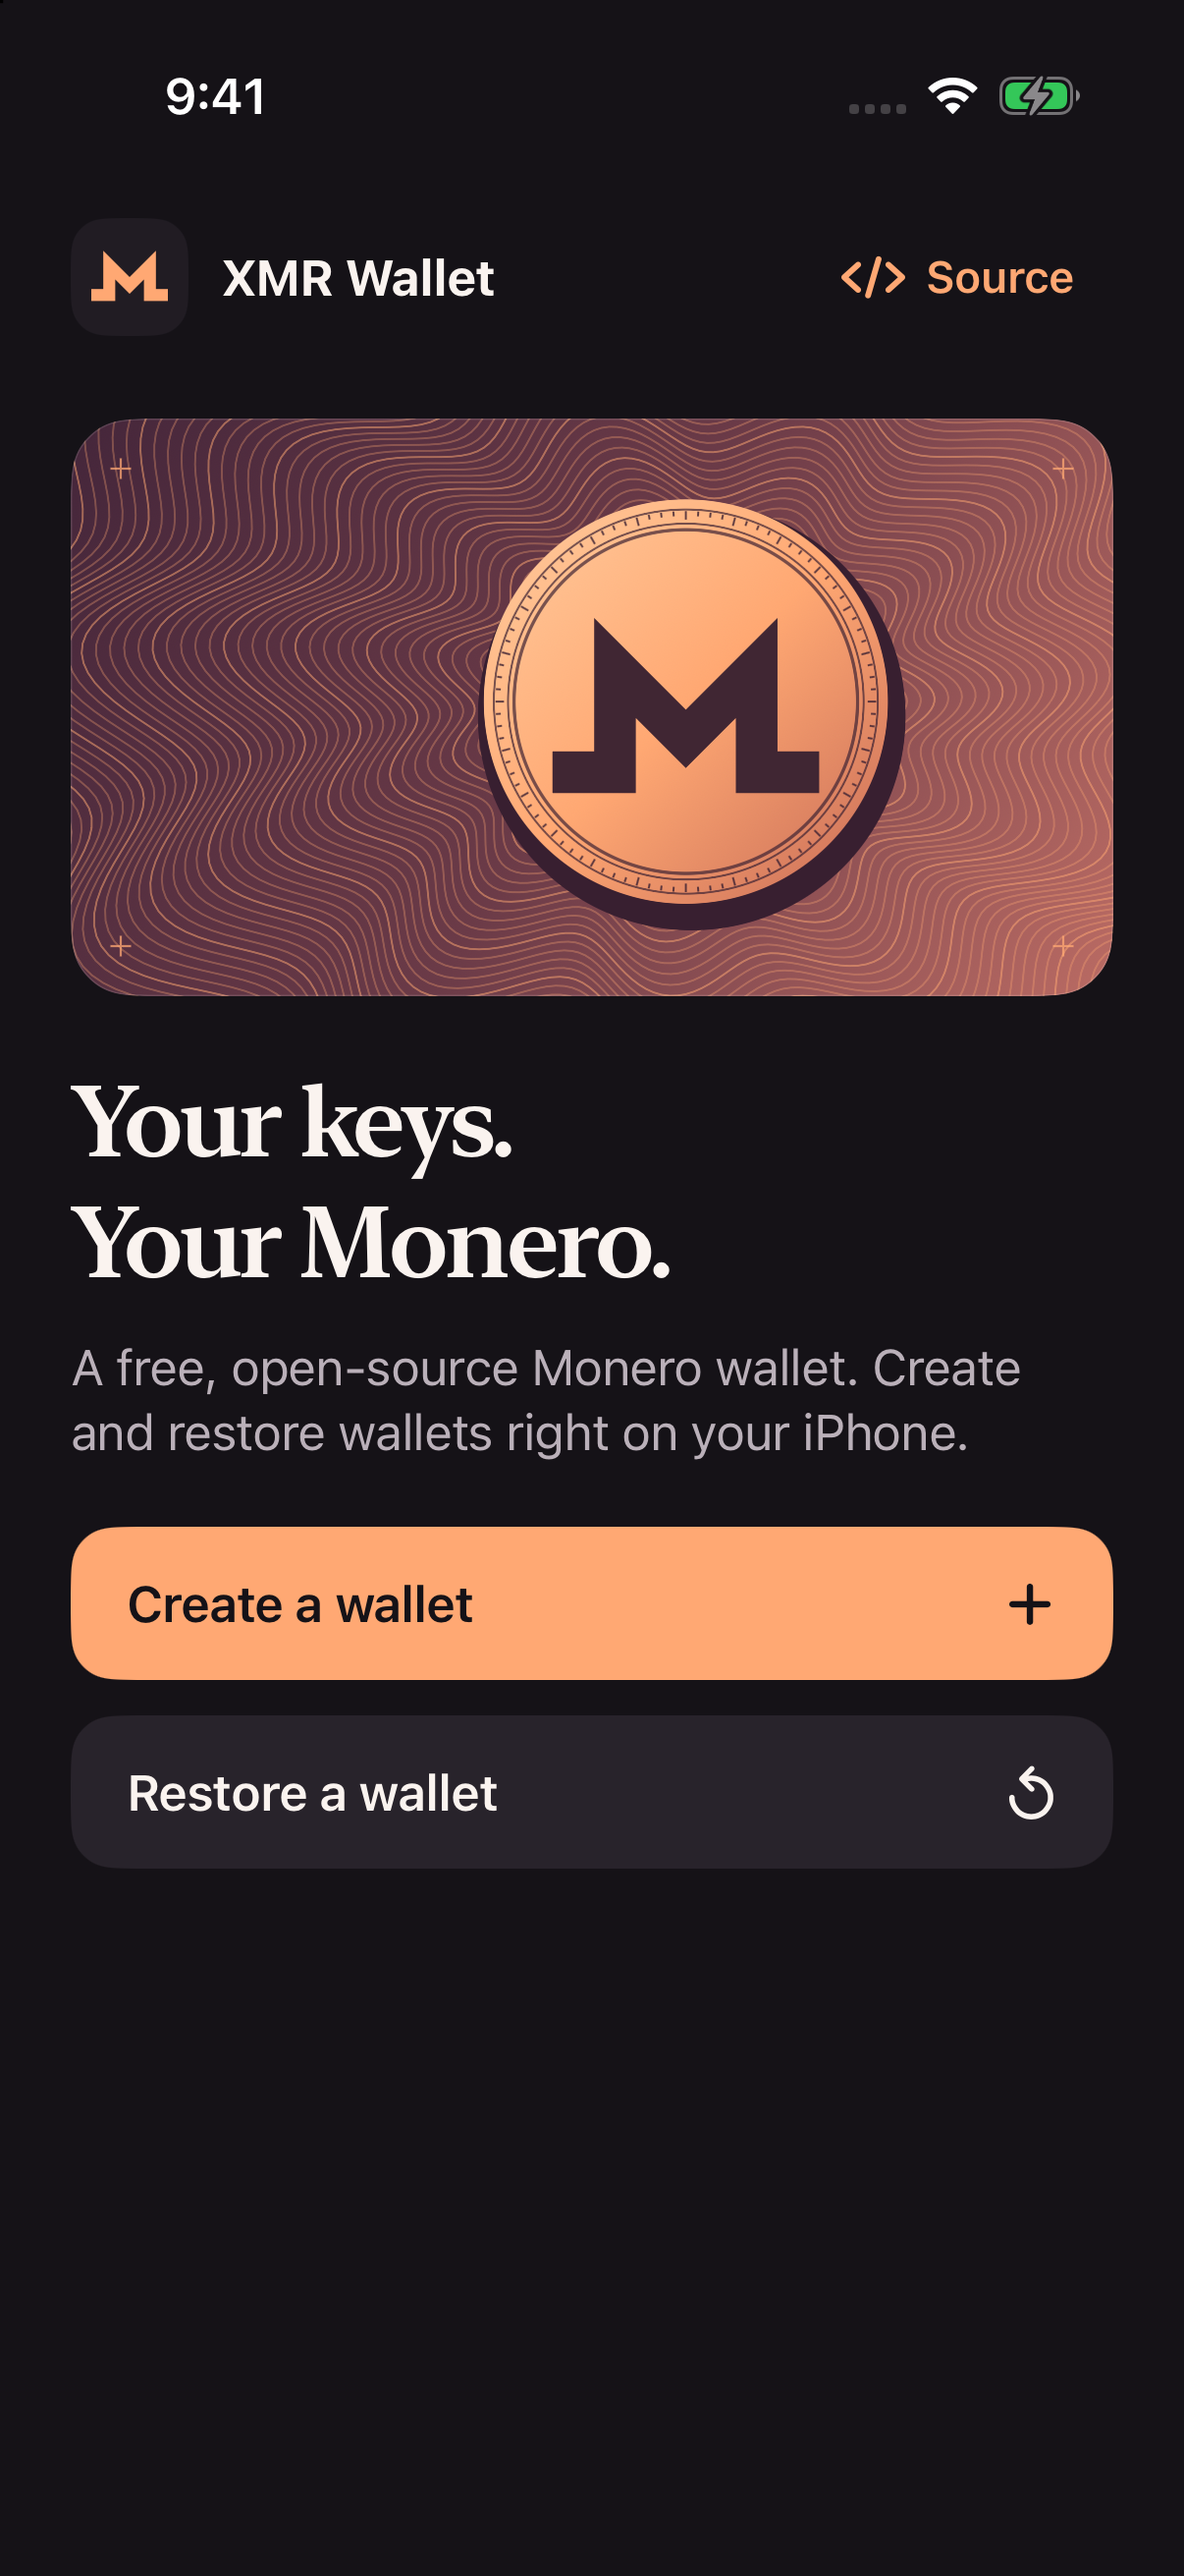
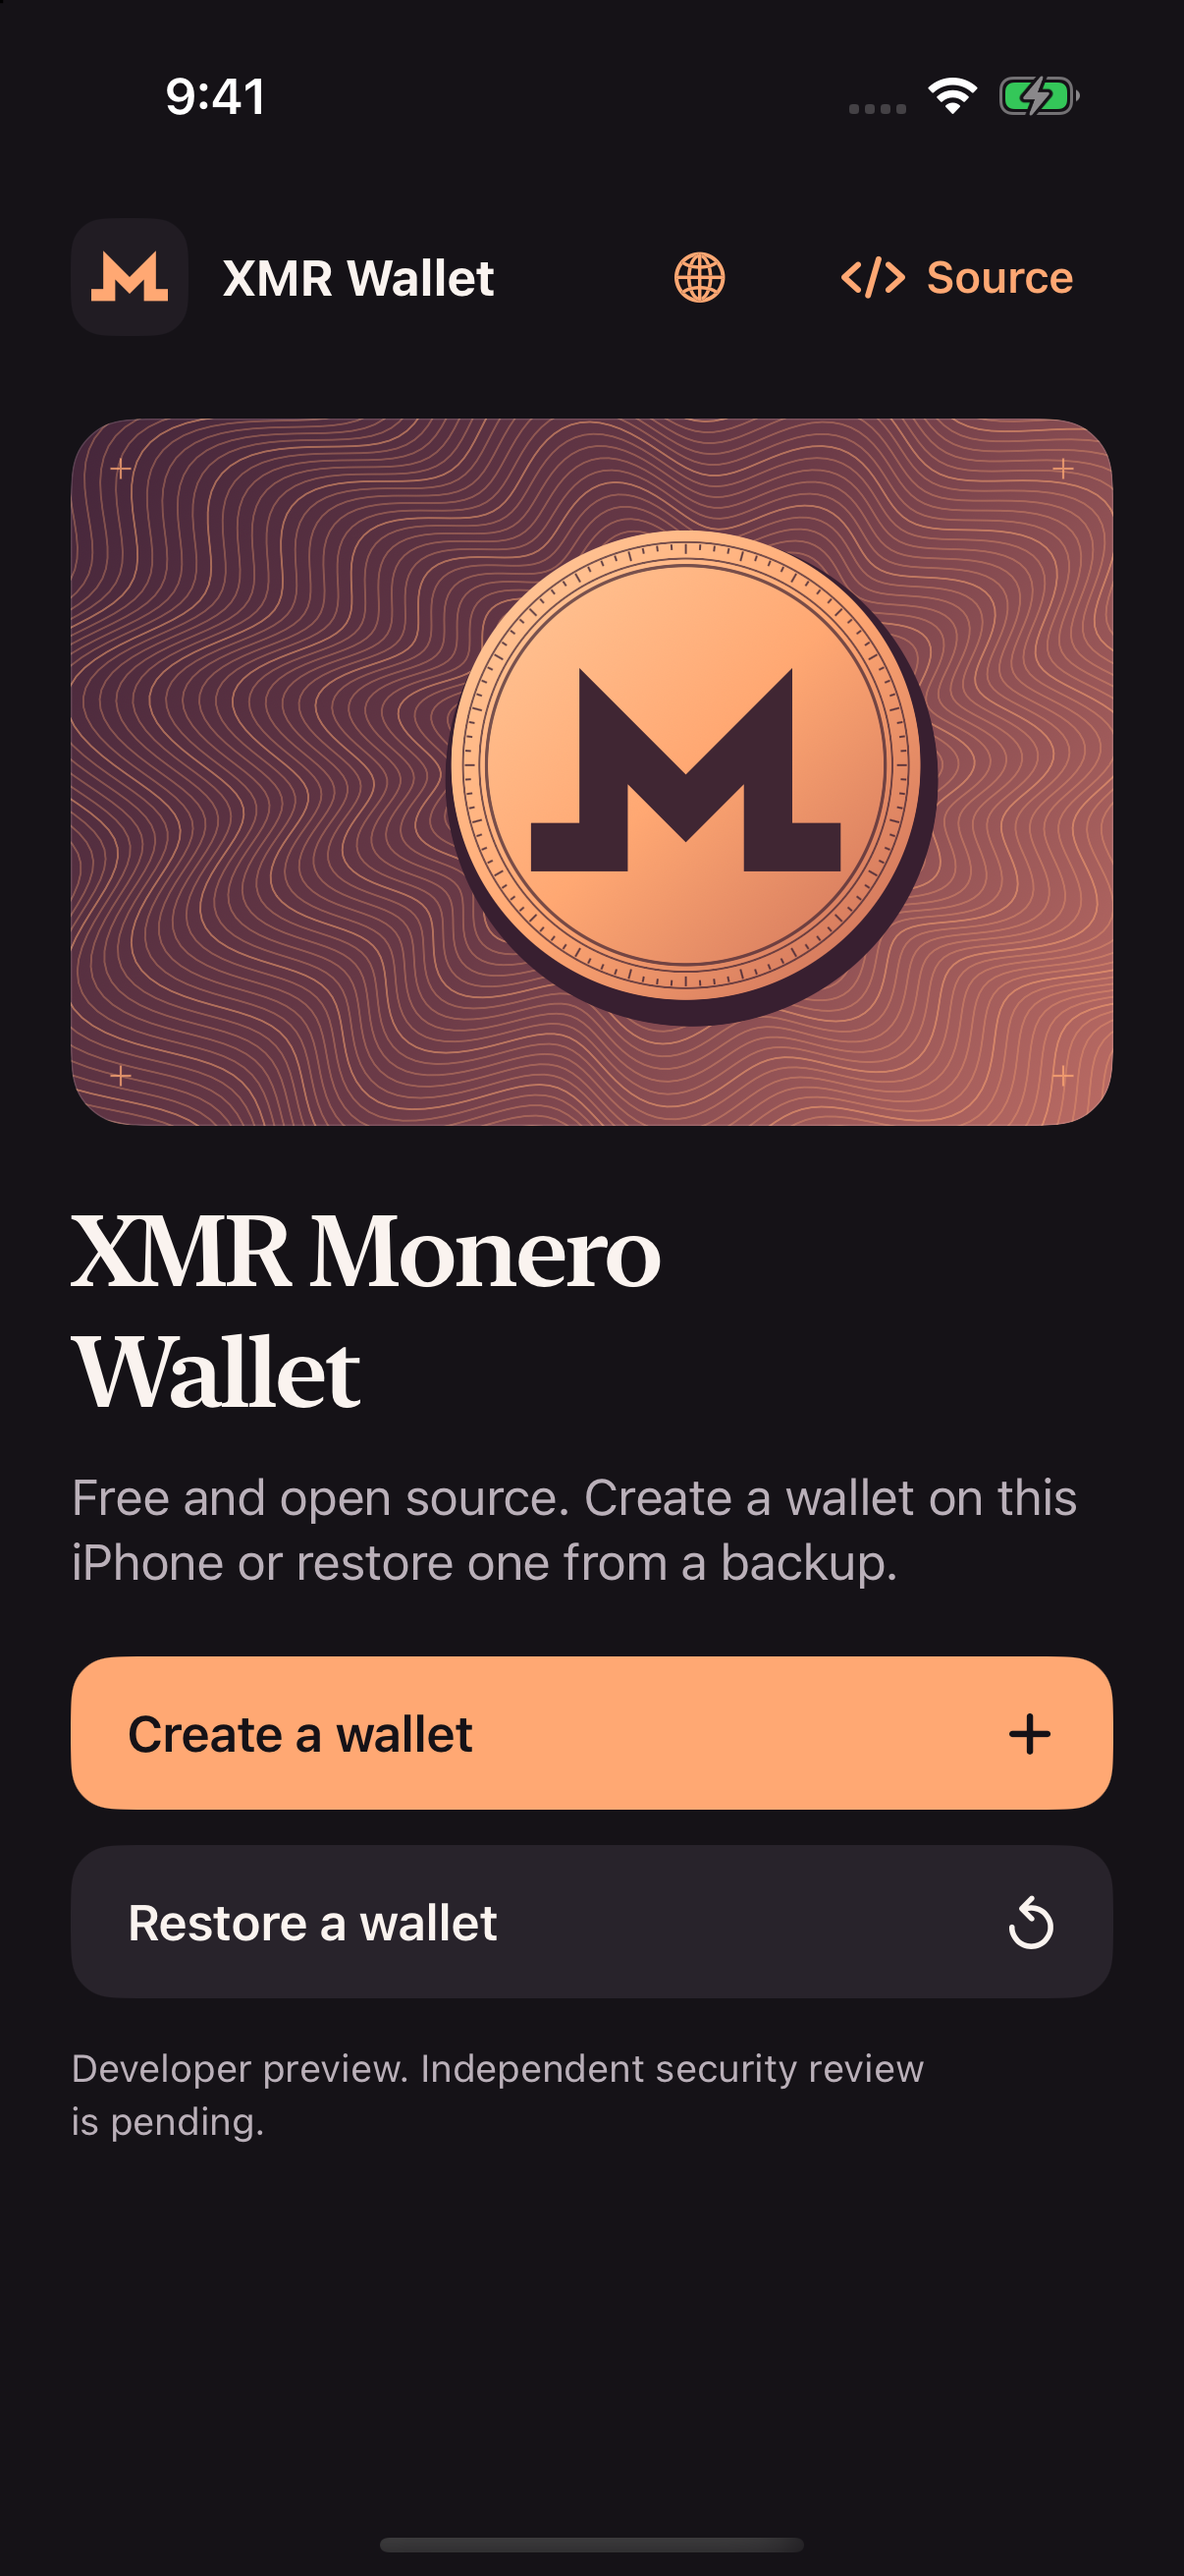
Show review status at onboarding and document verified public build

diff --git a/Security/VaultGate.swift b/Security/VaultGate.swift
@@ -123,6 +123,10 @@ private struct VaultEntry: View {
                     notice = nil
                 } label: { actionLabel("Restore a wallet", symbol: "arrow.counterclockwise") }
                 .buttonStyle(WalletPrimaryButton(muted: true)).accessibilityIdentifier("vault.restore")
+                Text("Developer preview. Independent security review is pending.")
+                    .font(.footnote).foregroundStyle(WalletStyle.muted)
+                    .frame(maxWidth: .infinity, alignment: .leading)
+                    .padding(.top, 4)
                 if !vault.wallets.isEmpty {
                     Button("Back to my wallets") { vault.lock() }.padding(.top, 6)
                 }

diff --git a/App/Settings.swift b/App/Settings.swift
@@ -9,7 +9,7 @@ struct WalletSource: View {
     var body: some View {
         WalletSheet(title: "Open source") {
             Image(systemName: "curlybraces").font(.system(size: 38, weight: .medium)).foregroundStyle(WalletStyle.apricot)
-            Text("Inside the wallet").font(.largeTitle.weight(.semibold))
+            Text("XMR Monero Wallet - Safe and opensource").font(.largeTitle.weight(.semibold))
             Text("Every screen, wallet operation and build instruction is public. You can read the Swift code, inspect the native engine and build your own copy.")
                 .foregroundStyle(WalletStyle.muted)
             WalletLine(label: "App license", value: "MIT")

diff --git a/ThirdParty/WalletEngine.md b/ThirdParty/WalletEngine.md
@@ -21,7 +21,7 @@ To rebuild the engine independently, clone the wrapper at the exact commit above
 
 The pinned engine's native HTTP client uses TLS autodetection. In this version that mode may accept an unverified certificate or retry with plaintext, even when given an HTTPS URL. `WalletEngine.connect` therefore rejects direct remote HTTPS traffic. The raw native endpoint must be loopback or a v3 onion service reached through a SOCKS4a-compatible proxy. For onion destinations the proxy resolves the hostname. The engine never falls back from an onion connection to a direct clearnet connection.
 
-The wallet2 base in this wrapper predates Monero v0.18.5.4. Patches, dependencies, daemon compatibility and advisory changes between these releases need review before a production release. A matching archive digest identifies the expected bytes. It does not provide independent security assurance.
+The wallet2 base in this wrapper predates Monero v0.18.5.4. The [upstream v0.18.5.0 release](https://github.com/monero-project/monero/releases/tag/v0.18.5.0) includes additional change-address checks and HTTP client authentication fixes. The newer upstream changes need to be evaluated and incorporated where applicable before a production release. A matching archive digest identifies the expected bytes. It does not provide independent security assurance.
 
 ## Verification
 

diff --git a/Docs/Verification.md b/Docs/Verification.md
@@ -1,6 +1,6 @@
 # Verification
 
-The iPhone 17 Pro simulator suite passed all 18 XCTest cases on iOS 26.5 with the optional public-node test enabled. Xcode also produced an unsigned arm64 Release build for iPhone. These are development checks. An independent review, source-to-binary reproduction and physical-device signing and camera tests remain open.
+The iPhone 17 Pro simulator suite passed all 18 XCTest cases on iOS 26.5 with the optional public-node test enabled. Xcode also produced an unsigned arm64 Release build for iPhone. A clean, unauthenticated GitHub clone also built for iPhone after running the documented dependency script. All three JavaScript recovery tests passed and rebuilding the bundled adapter produced an identical file. These are development checks. An independent review, source-to-binary reproduction and physical-device signing and camera tests remain open.
 
 | Check | Evidence |
 | --- | --- |
